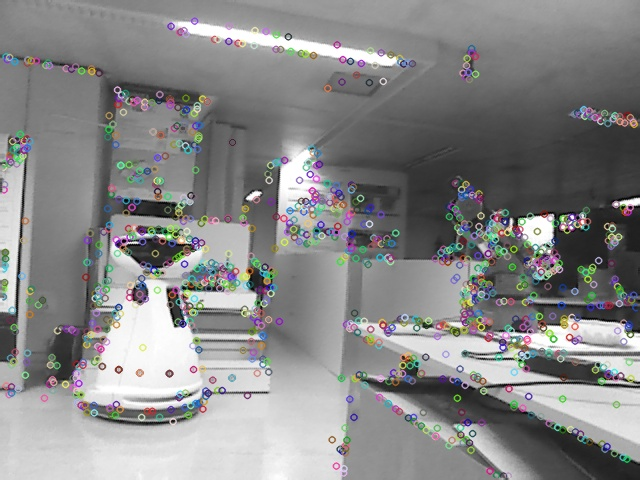
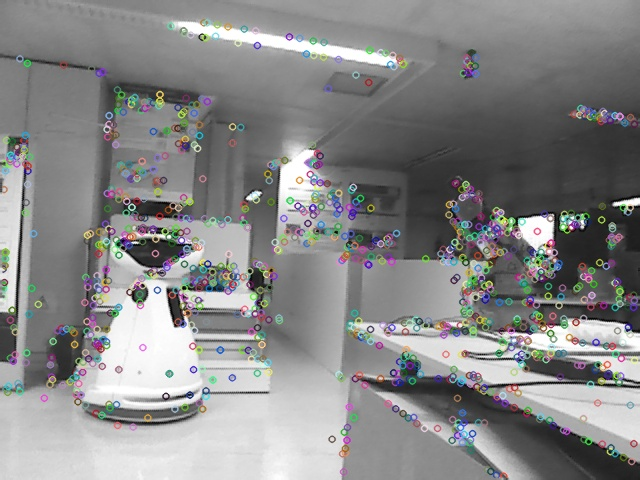
matches being done

diff --git a/msgfetcher.py b/msgfetcher.py
@@ -30,16 +30,30 @@ def main():
 
     bf = cv2.BFMatcher()
     matches = bf.knnMatch(des1,des2, k=2)
-    
-    print(matches[0])
 
     # Apply ratio test
     good = []
+
+    print(len(matches))
+    count=0
+
+    #only works for k=2 ( m,n are 2 variables)
     for m,n in matches:
+
+        #se a distancia entre os descritores mais proximos e os segundos mais proximo for grande o suficiente (25% menor)
         if m.distance < 0.75*n.distance:
-            good.append([m])
-    # cv.drawMatchesKnn expects list of lists as matches.
-    img3 = cv2.drawMatchesKnn(cv_rgb1,kp1,cv_rgb2,kp2,good)
+            good.append(m) #was  good.append([m]) 1.0
+
+    print(good)
+    #for m  in good:
+    #    print(m.distance)
+
+    
+    # cv2.drawMatchesKnn expects list of lists as matches.
+    img3 = cv2.drawMatchesKnn(cv_rgb1,kp1,cv_rgb2,kp2,good,None,flags=2) #was drawMatchesKnn 1.0
+        
+
+
     plt.imshow(img3),plt.show()
     
 

diff --git a/testssdelete.py b/testssdelete.py
@@ -1,0 +1,6 @@
+ola = [1,2,3,4,5,6]
+
+print(type(ola))
+for m in ola:
+    print("===")
+    print(m)
